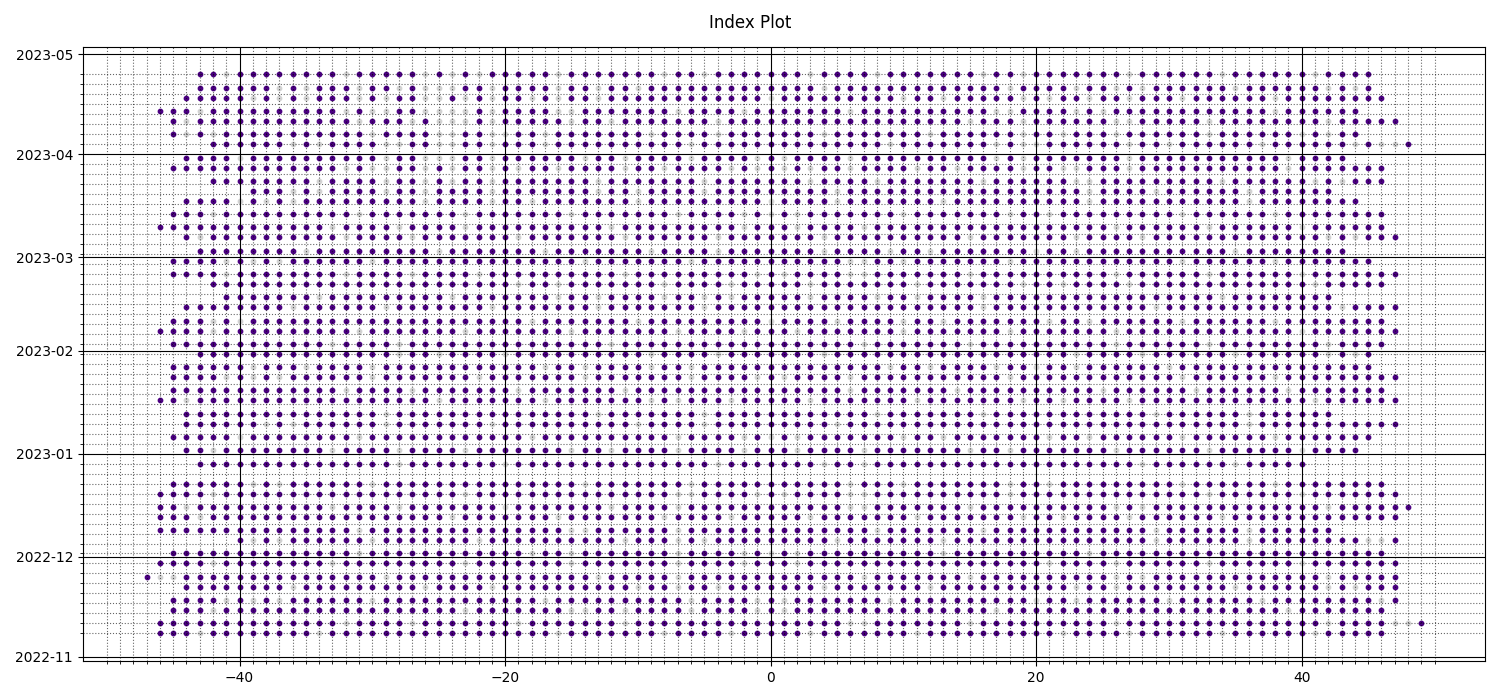
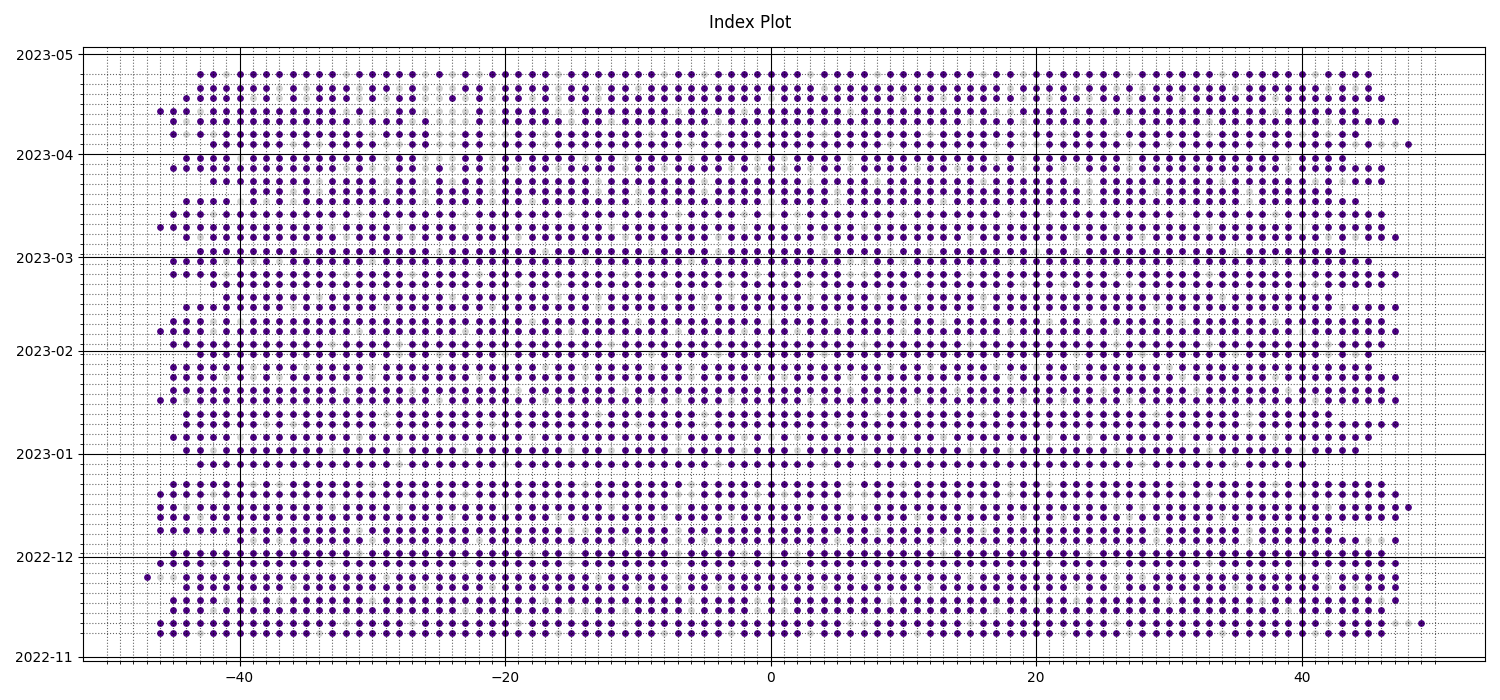
Cytrynbaum Ratiogit add .

Changed region(s): [[0.092, 0.12, 0.9507, 0.9], [0.3373, 0.12, 0.368, 0.18]]

diff --git a/TemplateMatching/format_plot.py b/TemplateMatching/format_plot.py
@@ -1,6 +1,8 @@
 import os
 import pandas as pd
 import matplotlib.pyplot as plt
+from matplotlib.cm import ScalarMappable
+from matplotlib.colors import Normalize
 import numpy as np
 from datetime import datetime, timedelta
 import time
@@ -123,6 +125,9 @@ def format_erupfall(display_time: bool = False) -> None:
         binary_column = df_binary[column_index].to_numpy()
         eruption_column = []
         fall_out_column = []
+        
+        no_erup_so_far = 0
+        no_fall_so_far = 0
 
         for entry_index in range(1, len(dates)):
             prev_val = binary_column[entry_index-1]
@@ -136,14 +141,18 @@ def format_erupfall(display_time: bool = False) -> None:
             else:
                 if(prev_val == 0 and 
                     curr_val == 1):
-                    eruption_column.append(1)
+                    eruption_column.append(no_erup_so_far + 1)
+                    no_erup_so_far = 0
                 else:
+                    no_erup_so_far += 1
                     eruption_column.append(0)
 
                 if(prev_val == 1 and 
                     curr_val == 0):
-                    fall_out_column.append(1)
+                    fall_out_column.append(no_fall_so_far + 1)
+                    no_fall_so_far = 0
                 else:
+                    no_fall_so_far += 1
                     fall_out_column.append(0)
         
         eruption_data[column_index] = eruption_column
@@ -218,6 +227,8 @@ def plot_result(display_time: bool = False) -> None:
     erup_y, nerup_y = [], []
     fall_y, nfall_y = [], []
     erupfall_dates = dates[1:]
+    c_erupt = []
+    c_fall = []
 
     for entry_index in range(len(erupfall_dates)):
         for column_index in index_columns:
@@ -229,20 +240,22 @@ def plot_result(display_time: bool = False) -> None:
             # if exists
             if not pd.isna(erup_entry):
                 # if eruption
-                if int(erup_entry) == 1:
+                if int(erup_entry) != 0:
                     erup_x.append(float(column_index))
                     erup_y.append(erupfall_dates[entry_index])
+                    c_erupt.append(int(erup_entry))
                 # if not eruption
-                elif int(erup_entry) == 0:
+                elif int(fall_entry) == 0:
                     nerup_x.append(float(column_index))
                     nerup_y.append(erupfall_dates[entry_index])
 
             # if exists
             if not pd.isna(fall_entry):
                 # if eruption
-                if int(fall_entry) == 1:
+                if int(fall_entry) != 0:
                     fall_x.append(float(column_index))
                     fall_y.append(erupfall_dates[entry_index])
+                    c_fall.append(int(fall_entry))
                 # if not eruption
                 elif int(fall_entry) == 0:
                     nfall_x.append(float(column_index))
@@ -259,6 +272,9 @@ def plot_result(display_time: bool = False) -> None:
     ax_fig.set_figheight(CONFIG.HEIGHT_SIZE)
     bin_fig.set_figwidth(CONFIG.WIDTH_SIZE)
     bin_fig.set_figheight(CONFIG.HEIGHT_SIZE)
+    # to use the Cytrynbaum ratio
+    # erup_fig.set_figwidth(15)
+    # erup_fig.set_figheight(4)
     erup_fig.set_figwidth(CONFIG.WIDTH_SIZE)
     erup_fig.set_figheight(CONFIG.HEIGHT_SIZE)
     fall_fig.set_figwidth(CONFIG.WIDTH_SIZE)
@@ -270,15 +286,18 @@ def plot_result(display_time: bool = False) -> None:
     fall_fig.suptitle("Fall Out Plot")
 
     # plot data
-    arc_ax.scatter(arc_tooth_x, tooth_y, c="indigo", s=10)
-    arc_ax.scatter(arc_gap_x, gap_y, c="lightgray", s=10)
-    bin_ax.scatter(bin_tooth_x, tooth_y, c="indigo", s=10)
-    bin_ax.scatter(bin_gap_x, gap_y, c="lightgray", s=10)
+    arc_ax.scatter(arc_tooth_x, tooth_y, c="indigo", s=15)
+    arc_ax.scatter(arc_gap_x, gap_y, c="lightgray", s=15)
+    bin_ax.scatter(bin_tooth_x, tooth_y, c="indigo", s=15)
+    bin_ax.scatter(bin_gap_x, gap_y, c="lightgray", s=15)
 
-    erup_ax.scatter(erup_x, erup_y, c="red", s=10)
-    erup_ax.scatter(nerup_x, nerup_y, c="lightgray", s=10)
-    fall_ax.scatter(fall_x, fall_y, c="red", s=10)
-    fall_ax.scatter(nfall_x, nfall_y, c="lightgray", s=10)
+    erup_ax.scatter(erup_x, erup_y, c=c_erupt, s=50, cmap="winter")
+    # erup_ax.scatter(nerup_x, nerup_y, c="lightgray", s=20)
+    fall_ax.scatter(fall_x, fall_y, c=c_fall, s=50, cmap="winter")
+    # fall_ax.scatter(nfall_x, nfall_y, c="lightgray", s=20)
+
+    erup_fig.colorbar(ScalarMappable(norm=Normalize(min(c_erupt), max(c_erupt)), cmap="winter"), ax=erup_ax)
+    fall_fig.colorbar(ScalarMappable(norm=Normalize(min(c_fall), max(c_fall)), cmap="winter"), ax=fall_ax)
 
     # set ticks from first to last date (for the grid)
     dates = sorted(dates)
@@ -308,6 +327,7 @@ def plot_result(display_time: bool = False) -> None:
     arc_ax.grid(which='major', color="k")
     bin_ax.grid(which='minor', color="k", linestyle=":", alpha=0.6)
     bin_ax.grid(which='major', color="k")
+    # comment out the two lines below to get the Cytrybaum plot
     erup_ax.grid(which='minor', color="k", linestyle=":", alpha=0.6)
     erup_ax.grid(which='major', color="k")
     fall_ax.grid(which='minor', color="k", linestyle=":", alpha=0.6)

diff --git a/TemplateMatching/main.py b/TemplateMatching/main.py
@@ -112,7 +112,6 @@ if __name__ == "__main__":
     
     # all other arguments 
     args = [arg for arg in args if (arg not in {"match", "manual", "fitproj", "format", "analyze", "main.py"})]
-    print(args)
     # all images in image 
     images = sorted([file for file in os.listdir(os.path.join(os.getcwd(),"img")) if suffix(file) in CONFIG.FILE_TYPES])
     num_of_images = len(images)
